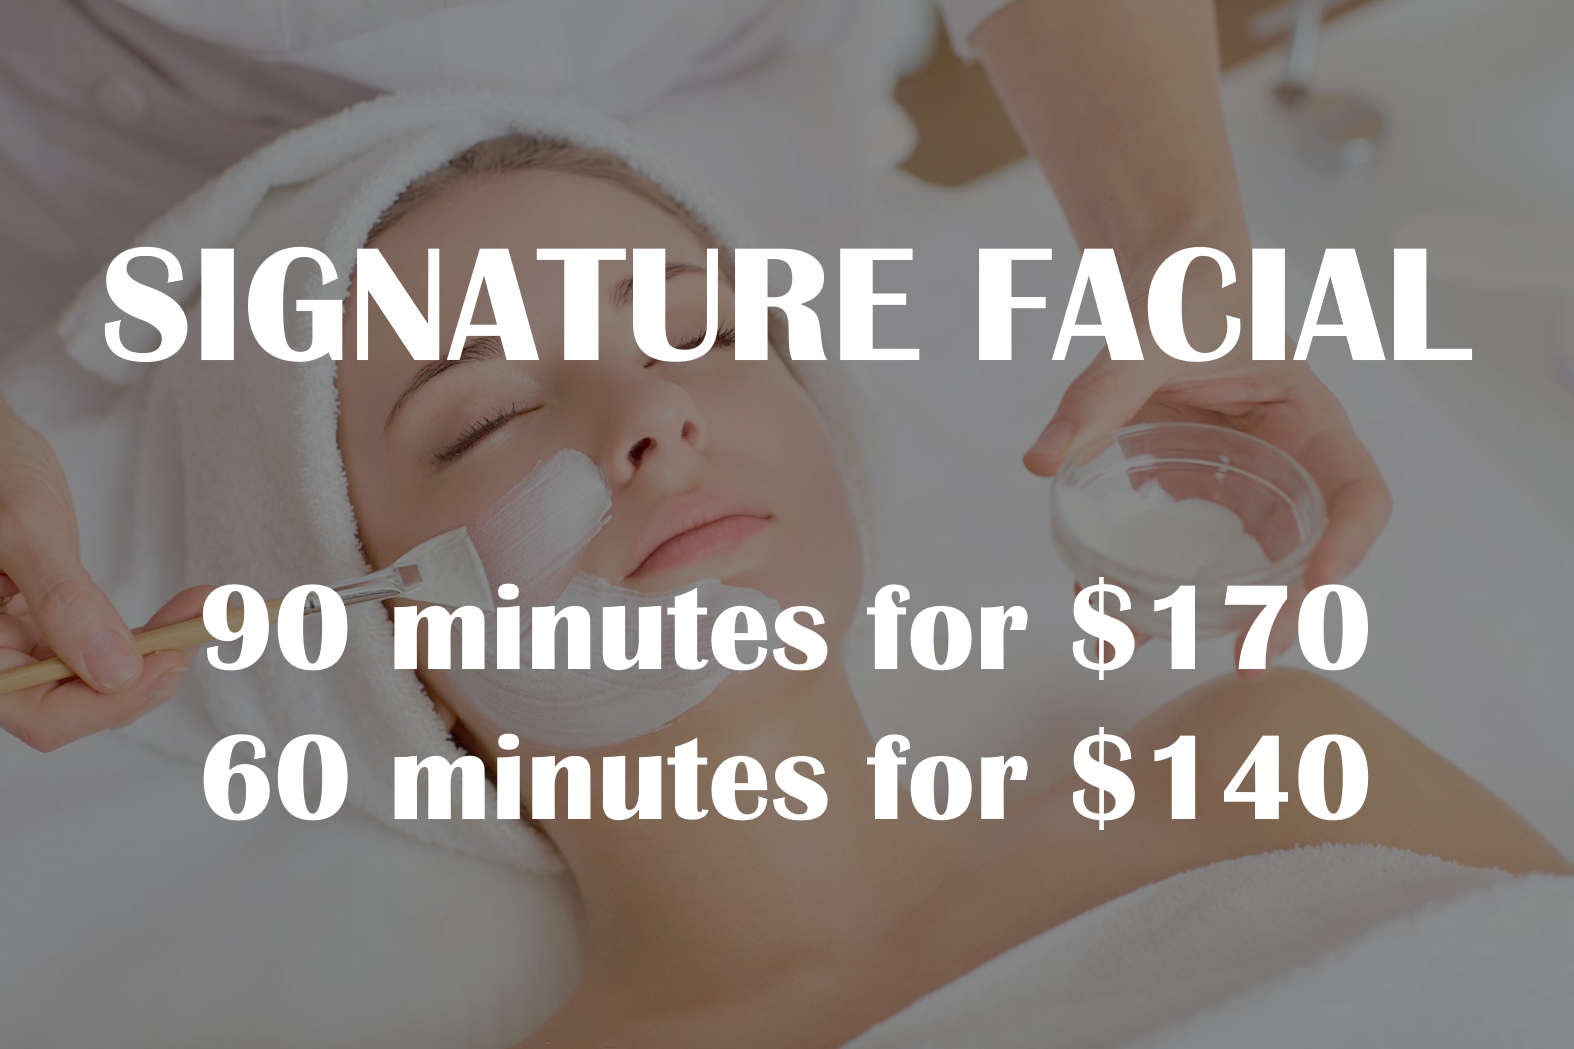
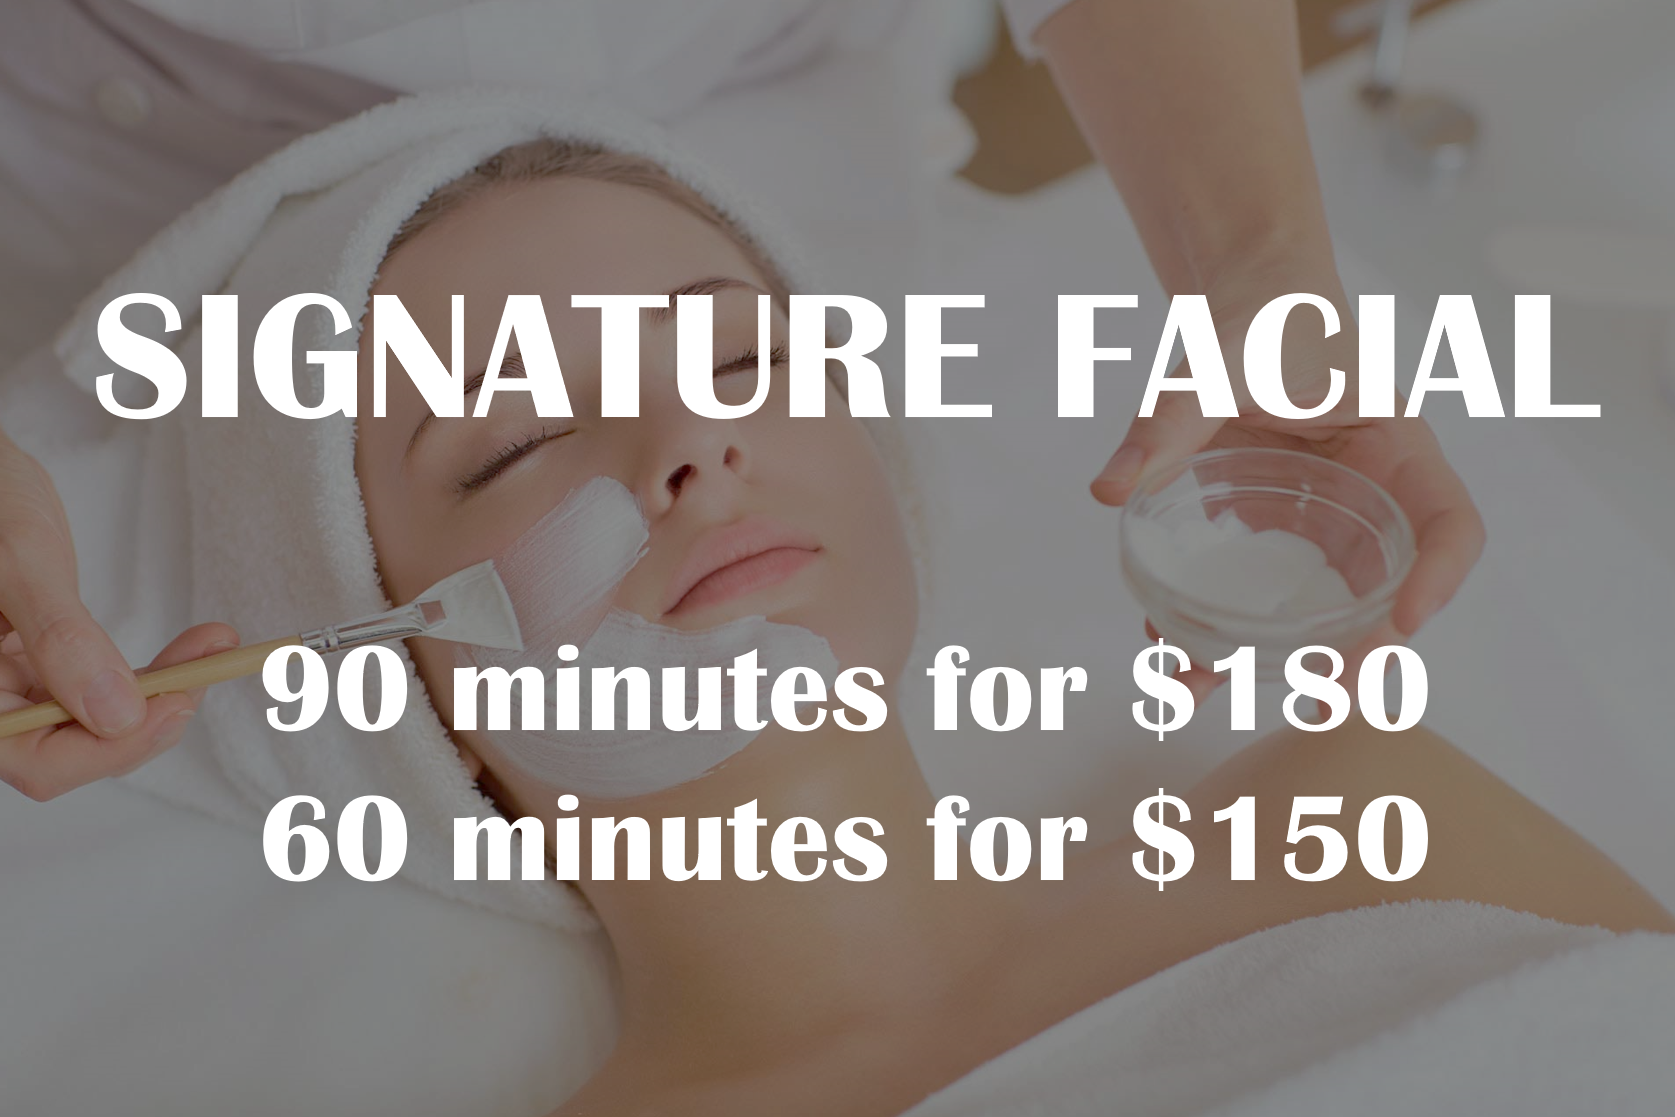
changed price for signature facial

diff --git a/services.html b/services.html
@@ -29,7 +29,6 @@ Template re-distribution is NOT allowed on any kind of download website. Thank y
     </header>
 
     <div class="tm-section">
-
       <nav class="tm-nav">
         <ul>
           <li>
@@ -51,17 +50,12 @@ Template re-distribution is NOT allowed on any kind of download website. Thank y
         <div class="tm-content tm-content-2">
           <p>Ask me about special pricing for my facial series</p>
           <p style="font-size: 14px">Click on each photo to see full service description</p>
-
           <div class="container-fluid">
             <div class="row tm-gallery" id="tmGallery">
               <div class="col-sm-6 tm-gallery-item">
                 <figure class="effect-bubba">
-                  <img src="img/gallery/signaturefacial.png" alt="Gallery item" class="img-fluid" />
+                  <img src="img/gallery/signaturefacial-new.png" alt="Gallery item" class="img-fluid" />
                   <figcaption>
-                    <!-- <h2>Signature Facial<span></span></h2>
-                    <p> 90 minutes for $170
-                      <span> 60 minutes for $140</span>
-                    </p> -->
                     <a href="img/services/1.png">View more</a>
                   </figcaption>
                 </figure>
@@ -70,10 +64,6 @@ Template re-distribution is NOT allowed on any kind of download website. Thank y
                 <figure class="effect-bubba">
                   <img src="img/gallery/facial-infusion-facial.png" alt="Gallery item" class="img-fluid" />
                   <figcaption>
-                    <!-- <h2>Facial Infusion <span></span></h2>
-                    <p> 90 Minutes for $155
-                      <span>60 Minutes for $125</span>
-                    </p> -->
                     <a href="img/services/2.png">View more</a>
                   </figcaption>
                 </figure>
@@ -82,8 +72,6 @@ Template re-distribution is NOT allowed on any kind of download website. Thank y
                 <figure class="effect-bubba">
                   <img src="img/gallery/teenfacial.png" alt="Gallery item" class="img-fluid" />
                   <figcaption>
-                    <!-- <h2>Teen Clarifying Facial<span></span></h2>
-                    <p>45 Minutes for $65</p> -->
                     <a href="img/services/3.png">View more</a>
                   </figcaption>
                 </figure>
@@ -92,8 +80,7 @@ Template re-distribution is NOT allowed on any kind of download website. Thank y
                 <figure class="effect-bubba">
                   <img src="img/gallery/customrejuvenationfacial.png" alt="Gallery item" class="img-fluid" />
                   <figcaption>
-                    <!-- <h2>Custom Skin Rejuvenation Facial<span></span></h2>
-                    <p>60 Minutes for $105</p> -->
+
                     <a href="img/services/4.png">View more</a>
                   </figcaption>
                 </figure>
@@ -102,8 +89,6 @@ Template re-distribution is NOT allowed on any kind of download website. Thank y
                 <figure class="effect-bubba">
                   <img src="img/gallery/backfacial.png" alt="Gallery item" class="img-fluid" />
                   <figcaption>
-                    <!-- <h2>Back Facial<span></span></h2>
-                    <p>45 Minutes for $85</p> -->
                     <a href="img/services/5.png">View more</a>
                   </figcaption>
                 </figure>
@@ -112,8 +97,6 @@ Template re-distribution is NOT allowed on any kind of download website. Thank y
                 <figure class="effect-bubba">
                   <img src="img/gallery/Nuface_Facial.png" alt="Gallery item" class="img-fluid" />
                   <figcaption>
-                    <!-- <h2>Back Facial<span></span></h2>
-                    <p>45 Minutes for $85</p> -->
                     <a href="img/services/30.PNG">View more</a>
                   </figcaption>
                 </figure>
@@ -122,8 +105,6 @@ Template re-distribution is NOT allowed on any kind of download website. Thank y
                 <figure class="effect-bubba">
                   <img src="img/gallery/highfrequency.png" alt="Gallery item" class="img-fluid" />
                   <figcaption>
-                    <!-- <h2>High Frequency mini Facial<span></span></h2>
-                    <p>20 Minutes for $35</p> -->
                     <a href="img/services/6.png">View more</a>
                   </figcaption>
                 </figure>
@@ -132,8 +113,6 @@ Template re-distribution is NOT allowed on any kind of download website. Thank y
                 <figure class="effect-bubba">
                   <img src="img/gallery/brazilian_women.png" alt="Gallery item" class="img-fluid" />
                   <figcaption>
-                    <!-- <h2>Bikini Sugaring Hair Removal <span></span></h2>
-                    <p>20 Minutes for $40</p> -->
                     <a href="img/services/9.png">View more</a>
                   </figcaption>
                 </figure>
@@ -142,8 +121,6 @@ Template re-distribution is NOT allowed on any kind of download website. Thank y
                 <figure class="effect-bubba">
                   <img src="img/gallery/sugaring1.png" alt="Gallery item" class="img-fluid" />
                   <figcaption>
-                    <!-- <h2>Brazilian Sugaring Hair Removal <span></span></h2>
-                    <p>35 Minutes for $55</p> -->
                     <a href="img/services/7.png">View more</a>
                   </figcaption>
                 </figure>
@@ -152,8 +129,6 @@ Template re-distribution is NOT allowed on any kind of download website. Thank y
                 <figure class="effect-bubba">
                   <img src="img/gallery/sugaring2.png" alt="Gallery item" class="img-fluid" />
                   <figcaption>
-                    <!-- <h2>Brazilian Sugaring Maintenance <span></span></h2>
-                    <p>35 Minutes for $45</p> -->
                     <a href="img/services/8.png">View more</a>
                   </figcaption>
                 </figure>
@@ -162,9 +137,6 @@ Template re-distribution is NOT allowed on any kind of download website. Thank y
                 <figure class="effect-bubba">
                   <img src="img/gallery/halfleg.png" alt="Gallery item" class="img-fluid" />
                   <figcaption>
-                    <!-- <h2>Half Leg Wax <span></span></h2>
-                    <p>45 minutes for $40
-                      <span> +$15 extra for Sugaring</span></p> -->
                     <a href="img/services/11.png">View more</a>
                   </figcaption>
                 </figure>
@@ -173,9 +145,6 @@ Template re-distribution is NOT allowed on any kind of download website. Thank y
                 <figure class="effect-bubba">
                   <img src="img/gallery/fullleg.png" alt="Gallery item" class="img-fluid" />
                   <figcaption>
-                    <!-- <h2>Full Leg Wax <span></span></h2>
-                    <p>60 minutes for $70
-                      <span>+$20 extra for Sugaring </span></p> -->
                     <a href="img/services/12.png">View more</a>
                   </figcaption>
                 </figure>
@@ -184,9 +153,6 @@ Template re-distribution is NOT allowed on any kind of download website. Thank y
                 <figure class="effect-bubba">
                   <img src="img/gallery/halfarm.png" alt="Gallery item" class="img-fluid" />
                   <figcaption>
-                    <!-- <h2>Half Arm Wax<span></span></h2>
-                    <p>20 minutes for $25
-                      <span> +$5 extra for Sugaring </span></p> -->
                     <a href="img/services/13.png">View more</a>
                   </figcaption>
                 </figure>
@@ -195,9 +161,6 @@ Template re-distribution is NOT allowed on any kind of download website. Thank y
                 <figure class="effect-bubba">
                   <img src="img/gallery/fullarm.png" alt="Gallery item" class="img-fluid" />
                   <figcaption>
-                    <!-- <h2>Full Arm Wax <span></span></h2>
-                    <p>30 minutes for $35
-                      <span> +$10 extra for Sugaring </span></p> -->
                     <a href="img/services/14.png">View more</a>
                   </figcaption>
                 </figure>
@@ -206,10 +169,6 @@ Template re-distribution is NOT allowed on any kind of download website. Thank y
                 <figure class="effect-bubba">
                   <img src="img/gallery/underarm.png" alt="Gallery item" class="img-fluid" />
                   <figcaption>
-                    <!-- <h2>Underarm Wax<span></span></h2>
-                    <p>20 Minutes for $25
-                      <span>+$5 extra for sugaring</span>
-                    </p> -->
                     <a href="img/services/15.png">View more</a>
                   </figcaption>
                 </figure>
@@ -218,11 +177,6 @@ Template re-distribution is NOT allowed on any kind of download website. Thank y
                 <figure class="effect-bubba">
                   <img src="img/gallery/fullface.png" alt="Gallery item" class="img-fluid" />
                   <figcaption>
-                    <!-- <h2>Full Face Wax <span></span></h2>
-                    <p> 25 minutes for $35
-                      +$10 for Sugaring
-                      <span style="font-size: 10px">*Eyebrows not included*</span>
-                      </span></p> -->
                     <a href="img/services/16.png">View more</a>
                   </figcaption>
                 </figure>
@@ -231,9 +185,6 @@ Template re-distribution is NOT allowed on any kind of download website. Thank y
                 <figure class="effect-bubba">
                   <img src="img/gallery/lip1.png" alt="Gallery item" class="img-fluid" />
                   <figcaption>
-                    <!-- <h2>Lip Wax or Sugaring <span></span></h2>
-                    <p> 10 minutes for $10
-                      <span> </span></p> -->
                     <a href="img/services/17.png">View more</a>
                   </figcaption>
                 </figure>
@@ -242,8 +193,6 @@ Template re-distribution is NOT allowed on any kind of download website. Thank y
                 <figure class="effect-bubba">
                   <img src="img/gallery/eyebrow.png" alt="Gallery item" class="img-fluid" />
                   <figcaption>
-                    <!-- <h2>Eyebrow Shaping/Wax<span></span></h2>
-                    <p>20 minutes for $20</p> -->
                     <a href="img/services/18.png">View more</a>
                   </figcaption>
                 </figure>
@@ -262,10 +211,6 @@ Template re-distribution is NOT allowed on any kind of download website. Thank y
                   <figure class="effect-bubba">
                     <img src="img/gallery/revitapen1.png" alt="Gallery item" class="img-fluid" />
                     <figcaption>
-                      <!-- <h2>Revitapen<span></span></h2>
-                      <p> $20
-                        <span> </span>
-                      </p> -->
                       <a href="img/services/19.png">View more</a>
                     </figcaption>
                   </figure>
@@ -274,10 +219,6 @@ Template re-distribution is NOT allowed on any kind of download website. Thank y
                   <figure class="effect-bubba">
                     <img src="img/gallery/facialinfusionnew.png" alt="Gallery item" class="img-fluid" />
                     <figcaption>
-                      <!-- <h2>Facial Infusion<span></span></h2>
-                      <p> $20
-                        <span> </span>
-                      </p> -->
                       <a href="img/services/20.png">View more</a>
                     </figcaption>
                   </figure>
@@ -286,10 +227,6 @@ Template re-distribution is NOT allowed on any kind of download website. Thank y
                   <figure class="effect-bubba">
                     <img src="img/gallery/highfrequency2.png" alt="Gallery item" class="img-fluid" />
                     <figcaption>
-                      <!-- <h2>High Frequency<span></span></h2>
-                      <p> $10
-                        <span> </span>
-                      </p> -->
                       <a href="img/services/21.png">View more</a>
                     </figcaption>
                   </figure>
@@ -298,23 +235,16 @@ Template re-distribution is NOT allowed on any kind of download website. Thank y
                   <figure class="effect-bubba">
                     <img src="img/gallery/Nuface_addon.png" alt="Gallery item" class="img-fluid" />
                     <figcaption>
-                      <!-- <h2>High Frequency<span></span></h2>
-                      <p> $10
-                        <span> </span>
-                      </p> -->
                       <a href="img/services/31.PNG">View more</a>
                     </figcaption>
                   </figure>
                 </div>
               </div>
-
             </div>
           </div>
         </div>
-
       </div>
     </div>
-
 
     <footer>
       <span>Copyright &copy; 2019</span>
